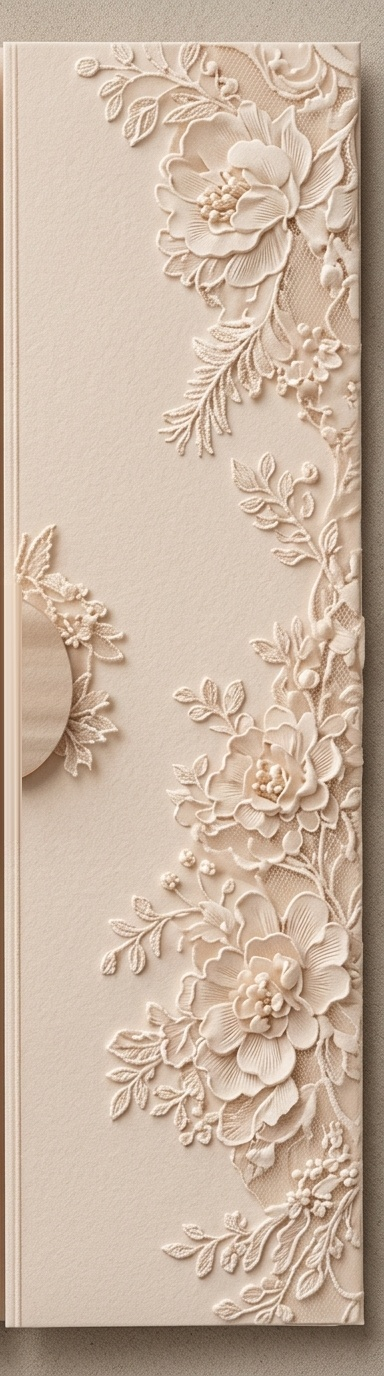
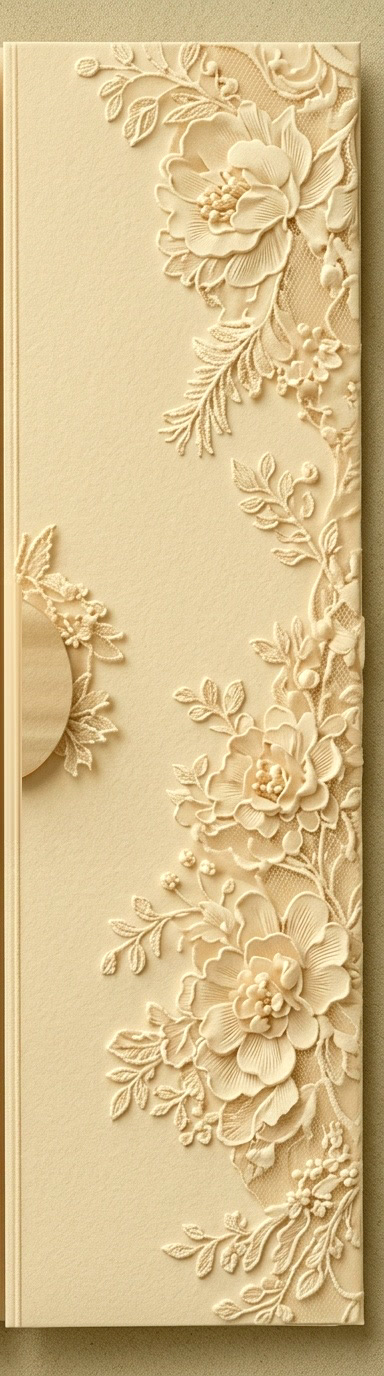
Apply champagne-gold gate doors and realistic petal sprites
- Gate doors: swapped the plain ivory gatefold-left/right-plain for the
  golden-tint versions, matching the gold filigree and amber lanterns
  already inside the hero card.
- Petal shower: replaced the flat CSS-gradient petals with 4 real
  transparent flower/floret PNG sprites, distributed across the 14
  petal elements.
- Bumped opacity (0.85->0.95) and roughly 1.5x'd every petal's --size -
  the realistic photo-style sprites are much lower-contrast against
  the pale ivory card than the old flat-color petals were, and were
  only barely visible at the original sizing (confirmed via a zoomed
  crop before and after).

diff --git a/css/style.css b/css/style.css
@@ -441,6 +441,8 @@ section {
     pointer-events: none;
 }
 
+/* Realistic flower petal sprites (replacing the earlier flat CSS-gradient
+   petals) - see per-sprite assignments below. */
 .hero-petals .petal {
     position: absolute;
     top: -30px;
@@ -450,18 +452,27 @@ section {
        of the left edge, which silently added ~195px (half the viewport) to
        every petal's translateX and sent them all flying off-screen right. */
     left: 0;
-    width: var(--size, 12px);
-    height: calc(var(--size, 12px) * 1.3);
-    border-radius: 0% 70% 30% 70%;
-    background: linear-gradient(
-        145deg,
-        rgba(235, 180, 185, 0.9) 0%,
-        rgba(185, 75, 90, 0.85) 60%,
-        rgba(139, 30, 43, 0.75) 100%
-    );
-    box-shadow: 0 2px 6px rgba(139, 30, 43, 0.15);
+    width: var(--size, 14px);
+    height: var(--size, 14px);
+    background-size: contain;
+    background-repeat: no-repeat;
+    background-position: center;
     opacity: 0;
+    pointer-events: none;
     animation: showerFall var(--duration, 8s) cubic-bezier(0.35, 0, 0.65, 1) var(--delay, 0s) infinite;
+}
+
+.hero-petals .p1,  .hero-petals .p5,  .hero-petals .p9,  .hero-petals .p13 {
+    background-image: url('../assets/images/decorations/petal-blush.png');
+}
+.hero-petals .p2,  .hero-petals .p6,  .hero-petals .p10 {
+    background-image: url('../assets/images/decorations/floret-blossom.png');
+}
+.hero-petals .p3,  .hero-petals .p7,  .hero-petals .p11 {
+    background-image: url('../assets/images/decorations/petal-curl.png');
+}
+.hero-petals .p4,  .hero-petals .p8,  .hero-petals .p12,  .hero-petals .p14 {
+    background-image: url('../assets/images/decorations/petal-ivory.png');
 }
 
 /* Originates top-right (matching the rose cluster already baked into
@@ -477,10 +488,14 @@ section {
         transform: translate3d(var(--start-x, 85vw), 8vh, 0) rotate(var(--rot-start, 25deg));
     }
     12% {
-        opacity: 0.85;
+        /* Bumped from 0.85 - the realistic photo-style sprites are much
+           lower-contrast against the pale ivory card than the earlier flat
+           CSS-gradient petals were, and needed the extra opacity plus the
+           larger --size values below to actually read at a glance. */
+        opacity: 0.95;
     }
     88% {
-        opacity: 0.85;
+        opacity: 0.95;
     }
     100% {
         opacity: 0;
@@ -489,20 +504,20 @@ section {
     }
 }
 
-.hero-petals .p1  { --start-x: 92vw; --drift-x: 130px; --size: 11px; --duration: 4.6s; --delay: 0s;    --rot-start: 15deg;  --rot-end: 340deg; }
-.hero-petals .p2  { --start-x: 80vw; --drift-x: 170px; --size: 15px; --duration: 5.4s; --delay: 0.6s;  --rot-start: 45deg;  --rot-end: 420deg; }
-.hero-petals .p3  { --start-x: 96vw; --drift-x: 110px; --size: 9px;  --duration: 4.1s; --delay: 1.1s;  --rot-start: 0deg;   --rot-end: 290deg; }
-.hero-petals .p4  { --start-x: 70vw; --drift-x: 200px; --size: 14px; --duration: 5.8s; --delay: 1.6s;  --rot-start: 60deg;  --rot-end: 460deg; }
-.hero-petals .p5  { --start-x: 87vw; --drift-x: 150px; --size: 12px; --duration: 5s;   --delay: 2.1s;  --rot-start: 30deg;  --rot-end: 370deg; }
-.hero-petals .p6  { --start-x: 93vw; --drift-x: 190px; --size: 16px; --duration: 5.6s; --delay: 2.6s;  --rot-start: -20deg; --rot-end: 330deg; }
-.hero-petals .p7  { --start-x: 75vw; --drift-x: 160px; --size: 10px; --duration: 4.4s; --delay: 3.1s;  --rot-start: 40deg;  --rot-end: 380deg; }
-.hero-petals .p8  { --start-x: 98vw; --drift-x: 120px; --size: 13px; --duration: 5.2s; --delay: 3.6s;  --rot-start: 10deg;  --rot-end: 350deg; }
-.hero-petals .p9  { --start-x: 83vw; --drift-x: 180px; --size: 11px; --duration: 4.8s; --delay: 0.3s;  --rot-start: 50deg;  --rot-end: 410deg; }
-.hero-petals .p10 { --start-x: 78vw; --drift-x: 150px; --size: 13px; --duration: 5.3s; --delay: 1.9s;  --rot-start: 25deg;  --rot-end: 360deg; }
-.hero-petals .p11 { --start-x: 90vw; --drift-x: 140px; --size: 12px; --duration: 4.7s; --delay: 4.0s;  --rot-start: 20deg;  --rot-end: 400deg; }
-.hero-petals .p12 { --start-x: 73vw; --drift-x: 210px; --size: 10px; --duration: 5.5s; --delay: 2.9s;  --rot-start: -10deg; --rot-end: 320deg; }
-.hero-petals .p13 { --start-x: 95vw; --drift-x: 125px; --size: 14px; --duration: 4.9s; --delay: 0.9s;  --rot-start: 55deg;  --rot-end: 450deg; }
-.hero-petals .p14 { --start-x: 85vw; --drift-x: 165px; --size: 9px;  --duration: 4.3s; --delay: 3.4s;  --rot-start: 5deg;   --rot-end: 300deg; }
+.hero-petals .p1  { --start-x: 92vw; --drift-x: 130px; --size: 18px; --duration: 4.6s; --delay: 0s;    --rot-start: 15deg;  --rot-end: 340deg; }
+.hero-petals .p2  { --start-x: 80vw; --drift-x: 170px; --size: 24px; --duration: 5.4s; --delay: 0.6s;  --rot-start: 45deg;  --rot-end: 420deg; }
+.hero-petals .p3  { --start-x: 96vw; --drift-x: 110px; --size: 14px; --duration: 4.1s; --delay: 1.1s;  --rot-start: 0deg;   --rot-end: 290deg; }
+.hero-petals .p4  { --start-x: 70vw; --drift-x: 200px; --size: 22px; --duration: 5.8s; --delay: 1.6s;  --rot-start: 60deg;  --rot-end: 460deg; }
+.hero-petals .p5  { --start-x: 87vw; --drift-x: 150px; --size: 19px; --duration: 5s;   --delay: 2.1s;  --rot-start: 30deg;  --rot-end: 370deg; }
+.hero-petals .p6  { --start-x: 93vw; --drift-x: 190px; --size: 26px; --duration: 5.6s; --delay: 2.6s;  --rot-start: -20deg; --rot-end: 330deg; }
+.hero-petals .p7  { --start-x: 75vw; --drift-x: 160px; --size: 16px; --duration: 4.4s; --delay: 3.1s;  --rot-start: 40deg;  --rot-end: 380deg; }
+.hero-petals .p8  { --start-x: 98vw; --drift-x: 120px; --size: 21px; --duration: 5.2s; --delay: 3.6s;  --rot-start: 10deg;  --rot-end: 350deg; }
+.hero-petals .p9  { --start-x: 83vw; --drift-x: 180px; --size: 18px; --duration: 4.8s; --delay: 0.3s;  --rot-start: 50deg;  --rot-end: 410deg; }
+.hero-petals .p10 { --start-x: 78vw; --drift-x: 150px; --size: 21px; --duration: 5.3s; --delay: 1.9s;  --rot-start: 25deg;  --rot-end: 360deg; }
+.hero-petals .p11 { --start-x: 90vw; --drift-x: 140px; --size: 19px; --duration: 4.7s; --delay: 4.0s;  --rot-start: 20deg;  --rot-end: 400deg; }
+.hero-petals .p12 { --start-x: 73vw; --drift-x: 210px; --size: 16px; --duration: 5.5s; --delay: 2.9s;  --rot-start: -10deg; --rot-end: 320deg; }
+.hero-petals .p13 { --start-x: 95vw; --drift-x: 125px; --size: 22px; --duration: 4.9s; --delay: 0.9s;  --rot-start: 55deg;  --rot-end: 450deg; }
+.hero-petals .p14 { --start-x: 85vw; --drift-x: 165px; --size: 14px; --duration: 4.3s; --delay: 3.4s;  --rot-start: 5deg;   --rot-end: 300deg; }
 
 @media (prefers-reduced-motion: reduce) {
     .hero-decorations {
